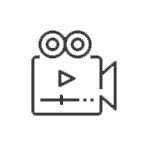
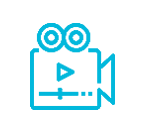
imagenes y footer

Changed region(s): [[0.1931, 0.1504, 0.8, 0.8421]]

diff --git a/templates/index.html b/templates/index.html
@@ -155,34 +155,89 @@
           <iframe id="map" frameborder="0" style="border:0" src="https://www.google.com/maps/embed/v1/place?key=AIzaSyDVMxcMRioAGVCO3KyRFb9BytZ8RLo0wCg&q=Space+Needle,Seattle+WA" allowfullscreen></iframe>
         </section>
 
-        <section id="contacto" class="container seccion ">
+        <section id="contacto" class=" seccion ">
           <div class="d-flex justify-content-center">
             <h2>Hablemos</h2>
           </div>
-          <div class="d-flex justify-content-between">
+          <div id="contenedor" class="container d-flex justify-content-between">
+
             <div>
-              <i class="far fa-envelope"></i>
+              <i class="far fa-envelope fa-3x"></i>
+            </div>
+            <div >
               <h4>¿Tienes alguna pregunta?</h4>
               <p>algo</p>
             </div>
+
             <div>
-              <i class="fas fa-phone"></i>
+              <i class="fas fa-phone fa-3x"></i>
+            </div>
+            <div>
               <h4>Llámanos</h4>
               <p>algo</p>
             </div>
+
             <div>
-              <i class="fab fa-facebook"></i>
+              <i class="fab fa-facebook fa-3x"></i>
+            </div>
+            <div>
               <h4>Escríbenos en facebook</h4>
               <p>algo</p>
             </div>
+
           </div>
+
+          <article id="form" class="">
+
+            <div class="container d-flex justify-content-around pt-5 pb-5">
+
+              <div id="descripcion" class="card w-25 border-0">
+                <div class="card-body">
+                  <h5 class="card-title">Envíanos un mensaje</h5>
+                  <p class="card-text">Atenderemos tus consultas dentro de 24 horas.</p>
+                  <div>
+                      <i class="fab fa-facebook fa-2x"></i>
+                      <i class="fab fa-instagram fa-2x"></i>
+                      <i class="fab fa-youtube fa-2x"></i>
+                  </div>
+                </div>
+              </div>
+
+              <form class="flex-grow">
+                <div class="form-row">
+
+                  <div class="form-group col-md-4">
+                    <label for="inputname">Nombre</label>
+                    <input type="email" class="form-control" id="inputname" placeholder="Tu nombre">
+                  </div>
+
+                  <div class="form-group col-md-4">
+                    <label for="inputEmail4">Email</label>
+                    <input type="email" class="form-control" id="inputEmail4" placeholder="Tu Email">
+                  </div>
+
+                  <div class="form-group col-md-4">
+                    <label for="inputAddress">Asunto</label>
+                    <input type="text" class="form-control" id="inputAddress" placeholder="Asunto">
+                  </div>
+                </div>
+                <div class="form-group">
+                <label for="exampleFormControlTextarea1">Mensaje</label>
+                <textarea class="form-control" id="exampleFormControlTextarea1" rows="3"></textarea>
+              </div>
+                <button type="submit" id="enviar" class="btn btn-primary">Enviar</button>
+              </form>
+            </div>
+
+          </article>
         </section>
 
 
     <footer class="footer">
       <div class="container center">
-        <div class="row justify-content-center">
-          <a class="nav-link js-scroll-trigger" href="">COMPANY &copy; 2018</a>
+        <div class="row d-flex justify-content-between">
+          <a class="nav-link js-scroll-trigger" href="" style="color:white;">&copy;2018 Footshot </a>
+          <p class="nav-link " style="font-size:10px;color:white;line-height:2.5">Desarrollo web - sebastian.m.e89@gmail.com</p>
         </div>
       </div>
     </footer>

diff --git a/static/css/styles.css b/static/css/styles.css
@@ -15,7 +15,8 @@ li span{
   padding-right: 15px;
 }
 .seccion{
-  margin-top: 60px
+  padding-top: 3rem;
+  padding-bottom: 3rem;
 }
 .card-body{
   position: static;
@@ -24,9 +25,7 @@ li span{
   background-color: #70caf0;
   color: #fff;
 }
-h2{
-  padding-top: 40px;
-}
+
 #lanzamiento p{
   font-size: 70px;
   font-weight: bold;
@@ -35,4 +34,18 @@ h2{
 #map {
   width: 100%;
   height: 400px;
+}
+i{
+  color: #70caf0;
+}
+#enviar{
+  background-color: #70caf0;
+  border-color: #70caf0;
+}
+#form, #descripcion{
+  background-color: #f9f9f9;
+}
+#contenedor div{
+  padding-top: 3rem;
+  padding-bottom: 3rem;
 }
